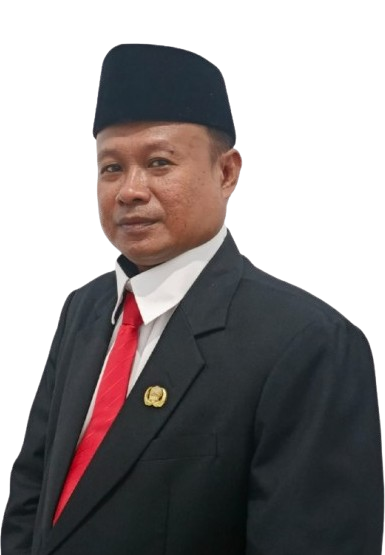
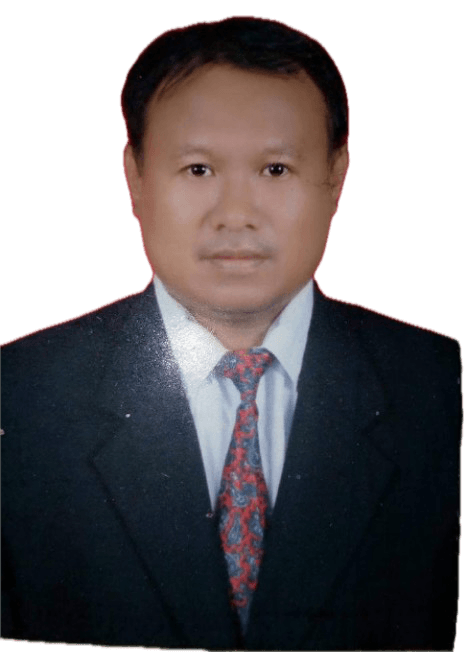
update data agen perubahan

diff --git a/src/lib/data.js b/src/lib/data.js
@@ -19,8 +19,8 @@ export const agenPerubahan = [
     unitKerja: "KUA Kanigaran Kota Probolinggo",
     tahun: 2026,
     foto: "/agen-perubahan/2026/2.png",
-    inovasi: "Program Kampung Zakat",
-    deskripsi: "Program Kampung Zakat merupakan inovasi pemberdayaan masyarakat berbasis zakat yang bertujuan untuk meningkatkan kesejahteraan dan kemandirian ekonomi masyarakat di wilayah sasaran melalui pengelolaan dana zakat yang terintegrasi, produktif, dan berkelanjutan. Program ini mengkolaborasikan berbagai pemangku kepentingan, seperti pemerintah, lembaga pengelola zakat, penyuluh agama, dan masyarakat dalam pelaksanaan kegiatan pemberdayaan di bidang ekonomi, pendidikan, kesehatan, sosial, dan keagamaan. Melalui Program Kampung Zakat, masyarakat tidak hanya menerima bantuan konsumtif, tetapi juga memperoleh pendampingan dan pembinaan untuk meningkatkan kapasitas, produktivitas, serta kualitas hidup sehingga tercipta masyarakat yang mandiri, sejahtera, dan berdaya saing.",
+    inovasi: "Gawes",
+    deskripsi: "GAWES (Gerakan Wakaf, Infak, dan Sedekah) adalah kegiatan yang bertujuan menumbuhkan semangat berbagi dan kepedulian sosial melalui penghimpunan serta penyaluran dana wakaf, infak, dan sedekah. Program ini mengajak seluruh masyarakat untuk berpartisipasi dalam membantu sesama, mendukung kegiatan keagamaan, pendidikan, dan sosial kemasyarakatan, sehingga tercipta manfaat yang berkelanjutan serta meningkatkan kesejahteraan umat."
   },
   {
     id: 3,
@@ -94,7 +94,7 @@ export const agenPerubahanInovasi = [
   {
     id: 2,
     relatedTo: 2,
-    inovasi: "Program Kampung Zakat",
+    inovasi: "Gawes",
     latarBelakang: `
     `,
     tujuan: [